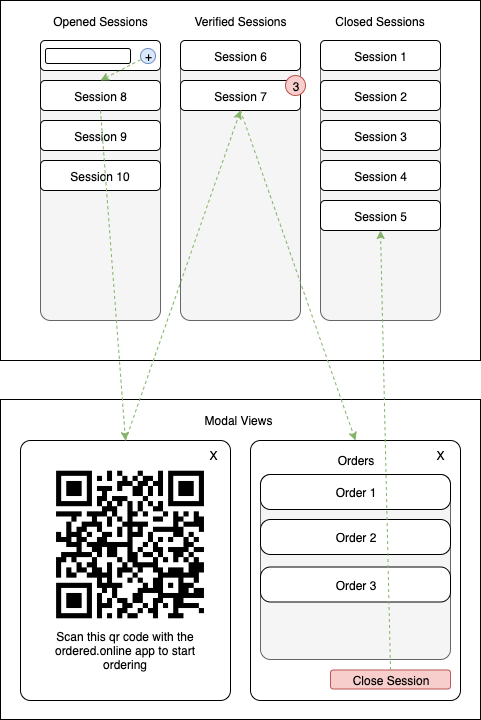
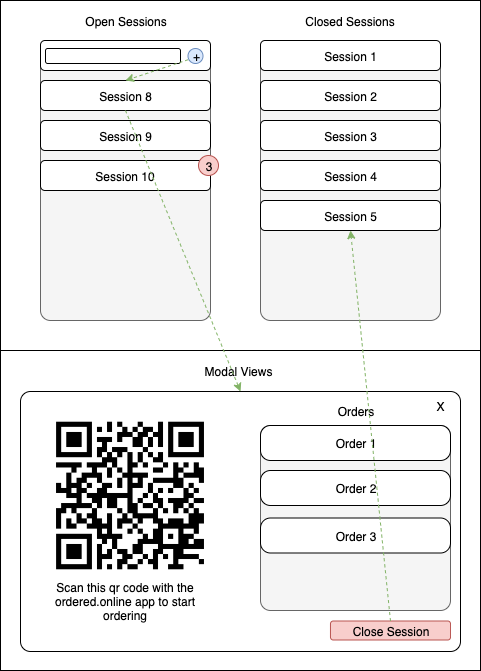
Remove unnecessary verified state on sessions

diff --git a/orders/orders/models.py b/orders/orders/models.py
@@ -7,8 +7,7 @@ from django.utils import timezone
 
 
 class SessionState(Enum):
-    OPENED = "OPENED"
-    VERIFIED = "VERIFIED"
+    OPEN = "OPEN"
     CLOSED = "CLOSED"
 
     @classmethod
@@ -23,7 +22,7 @@ class Session(models.Model):
     location_id = models.IntegerField()
 
     # optional fields
-    state = models.CharField(max_length=255, choices=SessionState.choices(), default=SessionState.OPENED.value)
+    state = models.CharField(max_length=255, choices=SessionState.choices(), default=SessionState.OPEN.value)
 
     # autogenerated fields
     timestamp = models.DateTimeField(default=timezone.now)

diff --git a/orders/orders/consumers.py b/orders/orders/consumers.py
@@ -15,8 +15,8 @@ class SessionConsumer(WebsocketConsumer):
         # reject all connections to erroneous session codes
         try:
             self.session = Session.objects.get(code__exact=self.session_code)
-        except Session.DoesNotExist as e:
-            self.close()
+        except Session.DoesNotExist:
+            self.close(code=404)
             return
 
         # join session group

diff --git a/README.md b/README.md
@@ -7,12 +7,12 @@ This django based micro service provides an API to obtain orders placed at a loc
 ![order panel scheme](assets/order-panel-scheme.png)
 
 The core idea of this service is to allow order placement. Here is the workflow:
-1. The location representative authenticates himself and opens the order panel. The order panel contains `OrderSessions`, which each have a state: `opened`, `verified`, `closed` (see layout).
-2. In the order panel, the location representative creates an order session with an identifier (e.g. "Table 2"). The order session is now `opened`. The order session automatically obtains a (qr renderable) code from the `codes` service. In the UI of the location representative, a WebSocket ist opened, which connects to the endpoint for the order session and therefore receives all messages, which are related to this order session (i.e., verification and orders themselves). 
+1. The location representative authenticates himself and opens the order panel. The order panel contains `OrderSessions`, which each have a state: `open` and `closed` (see layout).
+2. In the order panel, the location representative creates an order session with an identifier (e.g. "Table 2"). The order session is now `open`. The order session automatically obtains a (qr renderable) code from the `codes` service. In the UI of the location representative, a WebSocket ist opened, which connects to the endpoint for the order session and therefore receives all messages, which are related to this order session (i.e., orders themselves). 
 3. Clicking the order session in the leftmost column triggers a modal to be presented, which contains the QR code.
-4. User scans this QR code and sends the confirmation to the orders endpoint. The orders service pushes this confirmation to the WebSocket channel for the order session, so that the location representative's UI knows, that the session is now `verified`. The user connects to the same WebSocket channel, so that user and location representative are connected with each other from now on.
+4. User scans this QR code. The user connects to the same WebSocket channel by the obtained code, so that user and location representative are connected with each other from now on.
 5. The user can order products (these products are inferred by the `products` service) and those orders are pushed to the corresponding WebSocket channel, so that they are displayable by the location representative's UI.
-6. The location representative can see all orders of a session in a modal, which is presented, when clicking on the corresponding order session in the `verified` column.
+6. The location representative can see all orders of a session in a modal, which is presented, when clicking on the corresponding session.
 7. The location representative can close the order session. This posts a message to the user's WebSocket connection and triggers a UI change on the user side, which indicates, that the session was closed.
 
 ## Technology Stack
